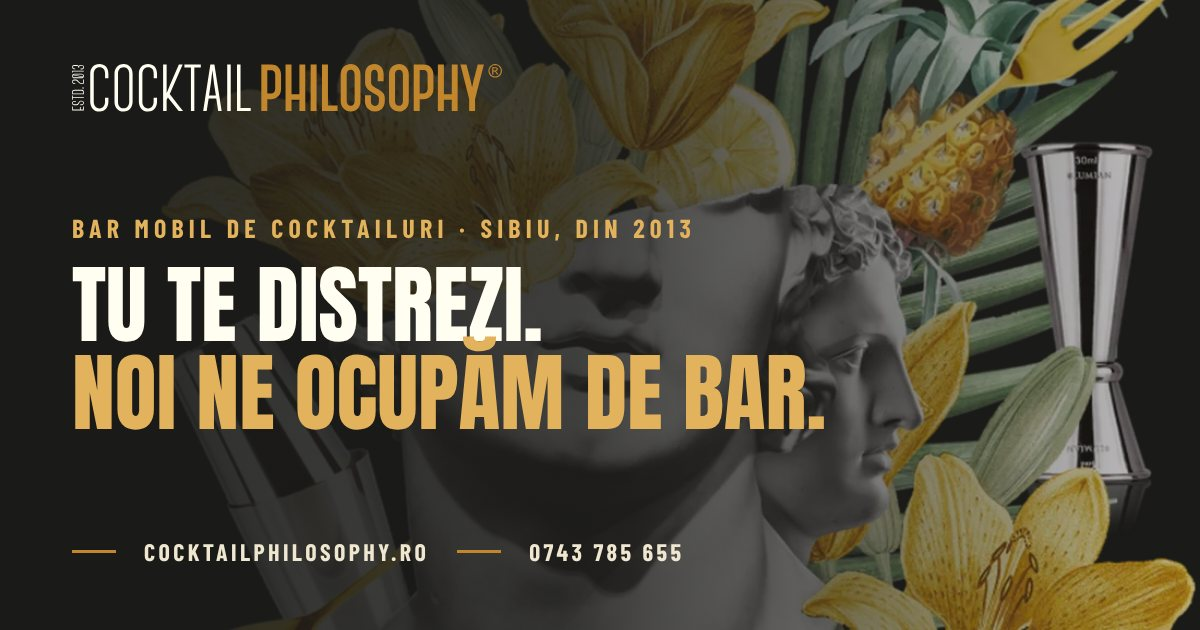
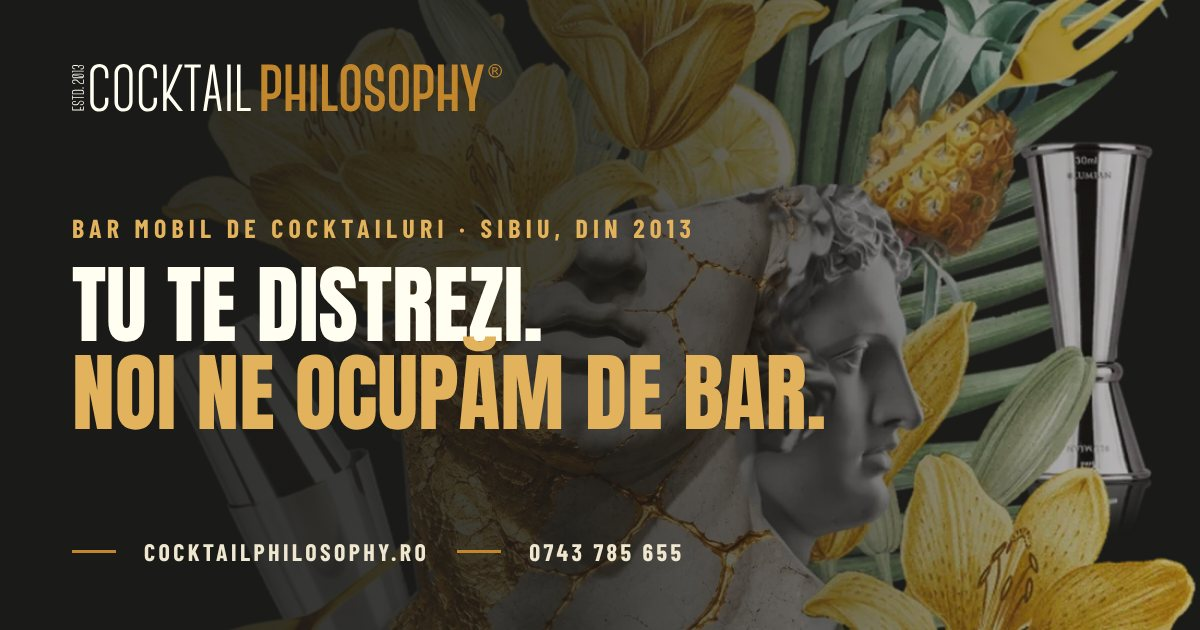
Site: statuia nouă cu fisuri aurii peste tot (colajul de sus, antetul Meniu, banda și pagina Sticluțe, fundaluri, previzualizările de link)
Claude-Session: https://claude.ai/code/session_019cz3UXkU5cUphGPstisMHZ

diff --git a/site-nou/meniu.html b/site-nou/meniu.html
@@ -9,7 +9,7 @@
 <link rel="icon" href="img/monograma-cp.svg" type="image/svg+xml">
 <link rel="preload" href="fonts/anton-latin-400-normal.woff2" as="font" type="font/woff2" crossorigin>
 <link rel="stylesheet" href="fonturi.css">
-<link rel="stylesheet" href="stil.css?v=20261119a">
+<link rel="stylesheet" href="stil.css?v=20261126a">
 <style>
 /* Meniu: partea de sus pe negru, cu statuia în semi-umbră (ca imaginea de previzualizare) */
 .m-hero{position:relative;overflow:hidden;background:var(--ink);color:var(--white);min-height:560px;display:flex;align-items:center}
@@ -86,7 +86,7 @@
 <main>
 
 <section class="m-hero">
-<img class="m-statuie" src="img/statuie-crini.webp" alt="" width="510" height="634">
+<img class="m-statuie" src="img/statuie-crini-aur.webp" alt="" width="510" height="634">
 <div class="m-shade" aria-hidden="true"></div>
 <div class="wrap">
 <p class="kicker">Meniul de cocktailuri 2026</p>
@@ -126,7 +126,7 @@
 <img src="img/siropuri-cocktail-philosophy.webp" alt="Sticlele de sirop făcute în casă: Passiflora, Harmony, Erasmus, Whiskey Sour, Platon" loading="lazy" style="width:100%;aspect-ratio:16/6;object-fit:cover">
 <figcaption class="note">Siropurile signature, făcute de noi în casă.</figcaption>
 </figure>
-<a class="st-card" href="sticlute.html"><img src="img/statuia-veche-frunze.webp" alt="" width="900" height="1125" loading="lazy"><span><b>Le găsești și la sticluță</b>Toate cele cinci signature, gata de servit, în sticluțe de 250 ml. <em>Vezi sticluțele →</em></span></a>
+<a class="st-card" href="sticlute.html"><img src="img/statuia-aur.webp" alt="" width="1122" height="1402" loading="lazy"><span><b>Le găsești și la sticluță</b>Toate cele cinci signature, gata de servit, în sticluțe de 250 ml. <em>Vezi sticluțele →</em></span></a>
 </div>
 </div>
 

diff --git a/site-nou/index.html b/site-nou/index.html
@@ -9,7 +9,7 @@
 <link rel="icon" href="img/monograma-cp.svg" type="image/svg+xml">
 <link rel="preload" href="fonts/anton-latin-400-normal.woff2" as="font" type="font/woff2" crossorigin>
 <link rel="stylesheet" href="fonturi.css">
-<link rel="stylesheet" href="stil.css?v=20261119a">
+<link rel="stylesheet" href="stil.css?v=20261126a">
 <!-- SEO -->
 <link rel="canonical" href="https://cocktailphilosophy.ro/">
 <meta name="theme-color" content="#1A1A18">
@@ -79,7 +79,7 @@
 <p class="note">Plătești după petrecere, pe factură la termen.</p>
 </div>
 <div class="hero-art">
-<div class="sun"><img src="img/colaj.webp" alt="Bust clasic acoperit de crini, cu ananas, palmier și unelte de bar" width="1100" height="1046"></div>
+<div class="sun"><img src="img/colaj-aur.webp" alt="Bust clasic cu fisuri reparate cu aur, acoperit de crini, cu ananas, palmier și unelte de bar" width="1100" height="1046"></div>
 </div>
 </div>
 </section>
@@ -233,7 +233,7 @@
 
 <section class="sec sec-white" id="sticlute">
 <div class="wrap st-band">
-<figure class="st-band-art"><img src="img/statuia-veche-frunze.webp" alt="Bustul clasic Cocktail Philosophy, cu ananas, crini și frunze tropicale" width="900" height="1125" loading="lazy"></figure>
+<figure class="st-band-art"><img src="img/statuia-aur.webp" alt="Bustul clasic Cocktail Philosophy, cu fisuri reparate cu aur, ananas, crini și frunze tropicale" width="1122" height="1402" loading="lazy"></figure>
 <div class="st-band-text">
 <p class="kicker">Nou · Signature la sticluță</p>
 <h2 class="h2">Barul nostru, <span class="gold">îmbuteliat.</span></h2>

diff --git a/site-nou/stil.css b/site-nou/stil.css
@@ -339,7 +339,7 @@ p{margin:0}
 .st-card em{font-style:normal;color:var(--gold-light);white-space:nowrap}
 
 .cu-frunze{position:relative;overflow:hidden;isolation:isolate}
-.cu-frunze::before{content:"";position:absolute;z-index:-1;left:-90px;bottom:-60px;width:520px;height:650px;background:url(img/statuia-veche-frunze.webp) center/cover no-repeat;opacity:.16;mix-blend-mode:luminosity;-webkit-mask-image:radial-gradient(closest-side,#000 55%,transparent);mask-image:radial-gradient(closest-side,#000 55%,transparent);pointer-events:none}
+.cu-frunze::before{content:"";position:absolute;z-index:-1;left:-90px;bottom:-60px;width:520px;height:650px;background:url(img/statuia-aur.webp) center/cover no-repeat;opacity:.16;mix-blend-mode:luminosity;-webkit-mask-image:radial-gradient(closest-side,#000 55%,transparent);mask-image:radial-gradient(closest-side,#000 55%,transparent);pointer-events:none}
 @media (max-width:860px){.cu-frunze::before{width:380px;height:475px;left:-120px;bottom:auto;top:-40px;opacity:.12}}
 @media (max-width:560px){.st-card{gap:14px;padding:14px}.st-card img{width:64px;height:64px}.st-card b{font-size:21px}.st-card span{font-size:15px}}
 

diff --git a/site-nou/sticlute.html b/site-nou/sticlute.html
@@ -9,7 +9,7 @@
 <link rel="icon" href="img/monograma-cp.svg" type="image/svg+xml">
 <link rel="preload" href="fonts/anton-latin-400-normal.woff2" as="font" type="font/woff2" crossorigin>
 <link rel="stylesheet" href="fonturi.css">
-<link rel="stylesheet" href="stil.css?v=20261119a">
+<link rel="stylesheet" href="stil.css?v=20261126a">
 <style>
 .s-hero{background:#212548;color:var(--white);overflow:hidden}
 .s-hero .wrap{display:flex;flex-wrap:wrap;align-items:center;gap:32px;padding-top:72px;padding-bottom:72px}
@@ -105,7 +105,7 @@
 <a class="btn btn-ghost" href="https://wa.me/40743785655?text=Bun%C4%83%21%20A%C8%99%20vrea%20detalii%20despre%20cocktailurile%20la%20sticlu%C8%9B%C4%83.">Scrie-ne pe WhatsApp</a>
 </div>
 </div>
-<div class="poza"><img src="img/statuia-veche-frunze.webp" alt="Bustul clasic Cocktail Philosophy, cu ananas, crini și frunze tropicale" width="900" height="1125"></div>
+<div class="poza"><img src="img/statuia-aur.webp" alt="Bustul clasic Cocktail Philosophy, cu fisuri reparate cu aur, ananas, crini și frunze tropicale" width="1122" height="1402"></div>
 </div>
 </section>
 

diff --git a/site-nou/variante-meniu.html b/site-nou/variante-meniu.html
@@ -7,7 +7,7 @@
 <title>Variante secțiune meniu | Cocktail Philosophy</title>
 <link rel="icon" href="img/monograma-cp.svg" type="image/svg+xml">
 <link rel="stylesheet" href="fonturi.css">
-<link rel="stylesheet" href="stil.css?v=20261119a">
+<link rel="stylesheet" href="stil.css?v=20261126a">
 <style>
 .vlabel{background:var(--ink);color:var(--gold-light);font-family:var(--cond);font-weight:700;font-size:16px;letter-spacing:.14em;text-transform:uppercase;padding:14px 0}
 .vlabel b{color:var(--white)}

diff --git a/site-nou/nunti.html b/site-nou/nunti.html
@@ -9,7 +9,7 @@
 <link rel="icon" href="img/monograma-cp.svg" type="image/svg+xml">
 <link rel="preload" href="fonts/anton-latin-400-normal.woff2" as="font" type="font/woff2" crossorigin>
 <link rel="stylesheet" href="fonturi.css">
-<link rel="stylesheet" href="stil.css?v=20261119a">
+<link rel="stylesheet" href="stil.css?v=20261126a">
 <style>
 .n-hero{position:relative;color:var(--white);background:var(--ink)}
 .n-hero img{position:absolute;inset:0;width:100%;height:100%;object-fit:cover;opacity:.55}

diff --git a/site-nou/corporate.html b/site-nou/corporate.html
@@ -9,7 +9,7 @@
 <link rel="icon" href="img/monograma-cp.svg" type="image/svg+xml">
 <link rel="preload" href="fonts/anton-latin-400-normal.woff2" as="font" type="font/woff2" crossorigin>
 <link rel="stylesheet" href="fonturi.css">
-<link rel="stylesheet" href="stil.css?v=20261119a">
+<link rel="stylesheet" href="stil.css?v=20261126a">
 <style>
 .n-hero{position:relative;color:var(--white);background:var(--ink)}
 .n-hero img{position:absolute;inset:0;width:100%;height:100%;object-fit:cover;opacity:.5}

diff --git a/site-nou/petreceri.html b/site-nou/petreceri.html
@@ -9,7 +9,7 @@
 <link rel="icon" href="img/monograma-cp.svg" type="image/svg+xml">
 <link rel="preload" href="fonts/anton-latin-400-normal.woff2" as="font" type="font/woff2" crossorigin>
 <link rel="stylesheet" href="fonturi.css">
-<link rel="stylesheet" href="stil.css?v=20261119a">
+<link rel="stylesheet" href="stil.css?v=20261126a">
 <style>
 .n-hero{position:relative;color:var(--white);background:var(--ink)}
 .n-hero img{position:absolute;inset:0;width:100%;height:100%;object-fit:cover;opacity:.5}

diff --git a/site-nou/oferte.html b/site-nou/oferte.html
@@ -9,7 +9,7 @@
 <link rel="icon" href="img/monograma-cp.svg" type="image/svg+xml">
 <link rel="preload" href="fonts/anton-latin-400-normal.woff2" as="font" type="font/woff2" crossorigin>
 <link rel="stylesheet" href="fonturi.css">
-<link rel="stylesheet" href="stil.css?v=20261119a">
+<link rel="stylesheet" href="stil.css?v=20261126a">
 <!-- SEO -->
 <link rel="canonical" href="https://cocktailphilosophy.ro/oferte/">
 <meta name="theme-color" content="#1A1A18">
